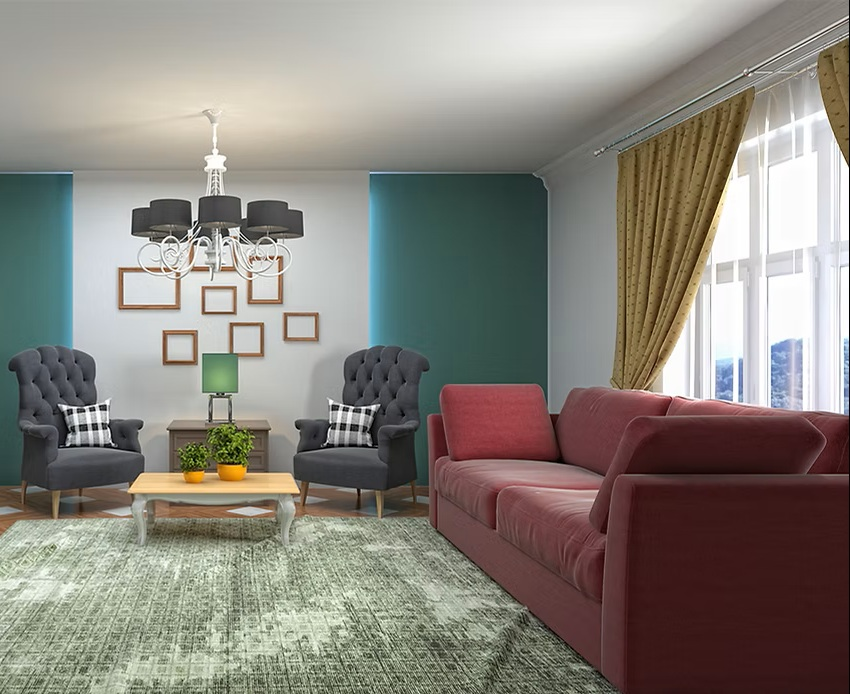
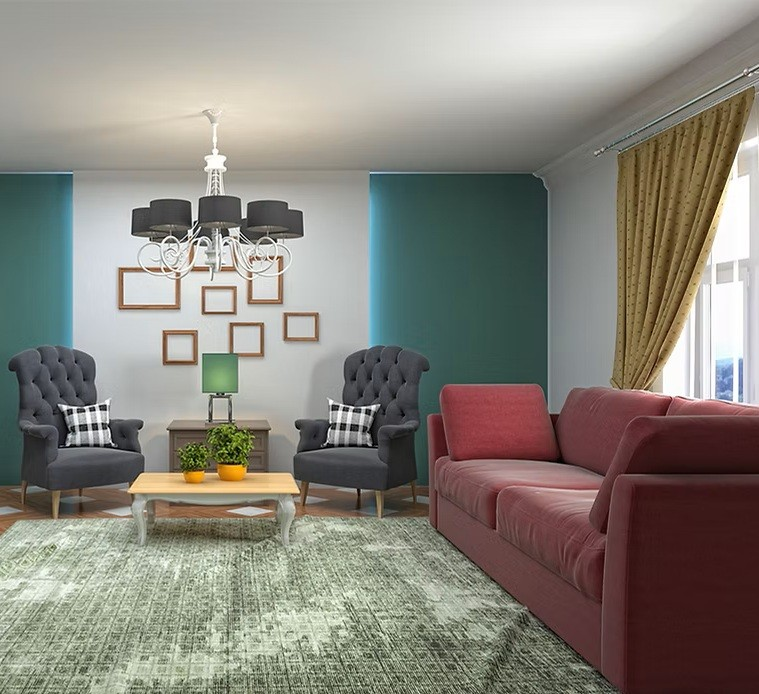
fixed responsiveness

diff --git a/src/pages/Listings.jsx b/src/pages/Listings.jsx
@@ -114,9 +114,9 @@ const handleSubmit = async (e) => {
       </div>)}
     
     <div className="container3">
-        <div className="demoroom h-[500px] w-[320px] sm:h-[500px] sm:w-[400px] border rounded-xl">
-          <div className='h-[65%]'><img src="/demoroom.jpg" className='rounded-xl'/></div>
-          <div className='demoroomdetails h-[35%] flex flex-col justify-center gap-[4px] bg-gray-50 rounded-xl'>
+        <div className="demoroom h-[450px] w-[350px] sm:h-[500px] sm:w-[400px] border rounded-xl overflow-clip">
+          <div className='h-[65%] overflow-clip'><img src="/demoroom.jpg" className='demoroom rounded-t-xl object-cover'/></div>
+          <div className='demoroomdetails h-[35%] flex flex-col justify-center gap-[4px] bg-gray-50 rounded-b-xl'>
             <h1><span className='font-semibold text-center'>'DEMO ROOM'</span></h1>
             <h1><span className='font-semibold'>Rent/month :&nbsp;</span>10,000</h1>
             <h1><span className='font-semibold'>Name :&nbsp;</span>Rohit</h1>
